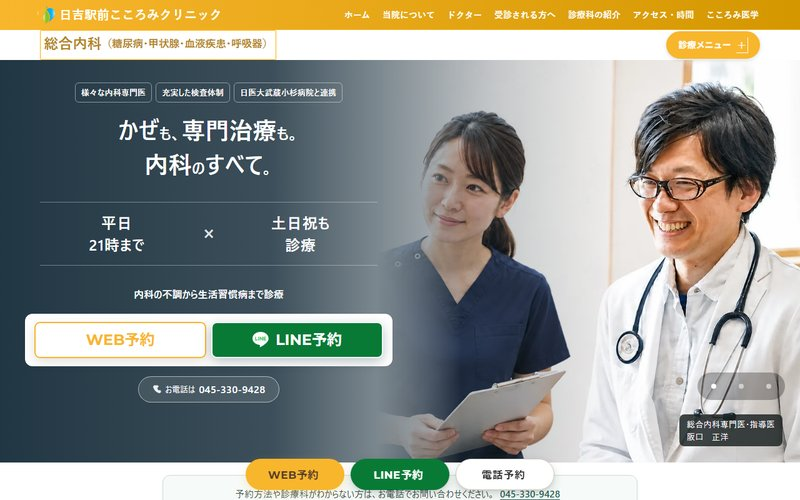
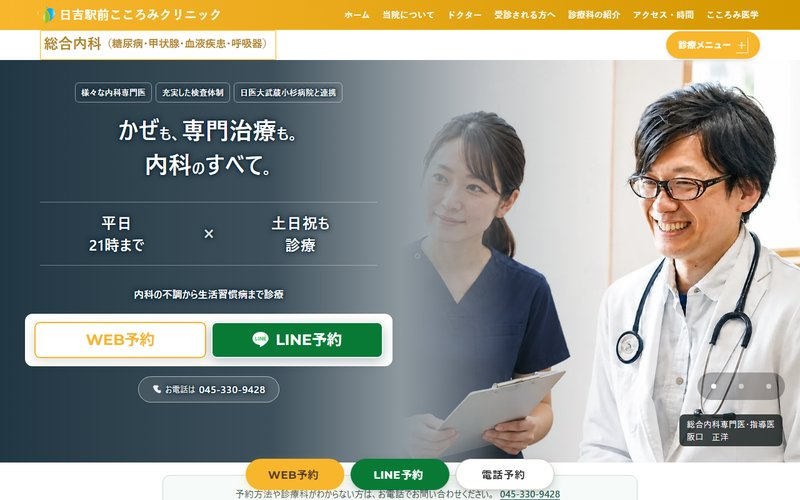
fix: 最初の画面を症状別ガイドの帯の作りそのもの（背景色→真ん中で白→写真）に（v0.19.0）
- 各科：①と同じぼかし（92/80/20/0%）の下に白い地 #F7F7F7（0〜50% 不透明→64% で消える）を敷き、真ん中を白く
- トップ：最初の画面ぜんたいを①と同じ「白い地＋ぼかし」に。写真の下も白い地、写真の上にも同じ位置のぼかし
- ネイビーは文字に紺のにじみ。グレー（4）は白い文字のため v0.18.0 のまま
- 説明ページと縮小画像12枚を更新。本番サイトは変更なし

diff --git a/fv-patterns/assets/fvp.css b/fv-patterns/assets/fvp.css
@@ -1,5 +1,5 @@
-/* 最初の画面の背景5パターン v0.18.0（土台は 2026-06-23〜29 の色＝sample.css。v0.13.0〜v0.16.0 は6・7を足した7パターン、v0.17.0 で6・7を外した。
-   v0.18.0 で各科ページに残っていたピンクを各科の色に、最初の画面のぼかしを①の数字そのものに）
+/* 最初の画面の背景5パターン v0.19.0（土台は 2026-06-23〜29 の色＝sample.css。v0.13.0〜v0.16.0 は6・7を足した7パターン、v0.17.0 で6・7を外した。
+   v0.18.0 で各科ページに残っていたピンクを各科の色に、最初の画面のぼかしを①の数字そのものに、v0.19.0 で最初の画面を①の作り（紺→白→写真）そのものに）
    ご依頼（2026-11-26）：「6月のもとの色を採用。基本、新たな色はつくらない。
      各科のページ、トップのグロナビの色はグラデーションをかけて。
      各ページ、ファーストビューの写真の背景の各科の色はとる。かわりに、各科の背景色ではなく全科統一の背景色にする。
@@ -84,57 +84,76 @@ html.fvp body section#front-top .gv-photo::after,html.fvp body section.hb-hero .
   --jfever-main:var(--fv-bg);--jfever-fill:var(--fv-bg);
   --dp-deep:var(--fv-bg);--hu-deep:var(--fv-bg);--gd-wine:var(--fv-bg);--department-rollout:var(--fv-bg);--color-rose:var(--fv-bg);--hb-main:var(--fv-bg)}
 
-/* ===== 最初の画面の「色 → 写真」のぼかしを①（トップの症状別ガイドの帯）の割合そのものに（v0.18.0・パソコン幅だけ） =====
-   ご依頼（2026-11-26）：「グラデーションの割合だけど、トップページ『その症状、どの専門医が診る？症状別ガイド』のうしろの背景。
-     ドクターの背景のグラデーションの割合を参考にしてほしい。真ん中くらいから白の割合が多くなってる感じ。そこにあわせて全科」
-   ①の帯：写真の上に linear-gradient(90deg, .92 0%, .80 34%, .20 62%, 0 78%)。左から右へ長くゆっくり薄くなり、
-     真ん中（50%）ではもう写真が半分以上見える。文字は半透明の濃い箱（.88）に載せて読みやすくしている。
-   v0.17.0 は「文字の下は 97% のまま → 49%から 54% までで一気に 50%」で、真ん中に段差があり①と違って見えた。
-   v0.18.0：
-   ・ぼかしの数字は①と同じ（0% 92% → 34% 80% → 62% 20% → 78% 0%）。
-   ・白（3）・グレー（4）だけは、①の数字のままだと文字の下に写真が透けて読みやすさの基準を下回る（写真の画素で計算。
-     白の上の総合内科の茶色・健診の朱色、グレーの上の白い文字は、写真が無くても 5.0〜5.2 で基準 4.5 に余裕がない）。
-     そこで左側だけ少し濃く（0% 97% → 34% 96%）。34%から右（62% 20% → 78% 0%）は①と同じ落ち方。
-     あわせて、文字のまわりに背景色のうっすらしたにじみ（text-shadow）を付けた（下の「文字の読みやすさ」）。
-   ・1枚目の写真が右半分だけの科（消化器・総合内科・耳鼻・発熱）と美容皮膚科：①の割合だと写真の左端が縦の線に見えるので、
-     写真の左端から幅の 20% をふんわり消す（mask-image）。①の帯は写真が横幅いっぱいなので、この線は出ない。
-     心療の1枚目（.gv-slide.g1）は横幅いっぱいの写真で、左端 20%（文字の下）だけ写真がわずかに薄くなる
-   ・心療：写真の上にもう1枚ぼかし（.gv-photo::after）があるので、二重にならないよう外す（v0.17.0 から）
-   ・美容皮膚科：写真（.hb-doctor-visual）が全体の 38%〜100% だけなので、同じ位置になるよう写真の中の位置に直した
-     （①の割合で 38% は 71.4%。写真の左端 71.4% → 38.7%（全体の62%）で 20% → 64.5%（78%）で 0%。白・グレーは同じ計算で 85.1% から）
-   ・トップ：今のまま（写真が右の約45%だけで狭く、①の割合では人物の顔まで色がかかる。v0.17.0 と同じ判断）
-   ・スマホ・タブレット（1023px 以下）：写真が上・文字が下の縦並びで横のぼかしは無いので、今のまま
-   v0.17.0 の形（文字の下 97% → 49%から一気に）は color-sample-v0.17.0/ に凍結 */
+/* ===== 最初の画面を①（トップの症状別ガイドの帯）の作りそのものに（v0.19.0・パソコン幅だけ） =====
+   ご依頼（2026-11-26・2回目）：「グラデーションの割合変わってる？ たとえば、ネイビーだったら、トップページの
+     『その症状、どの専門医が診る？症状別ガイド』のうしろのドクター写真の背景をそのままトップの背景にしてほしい。
+     色もグラデーションの割合も同じものを再現して。他の科もグラデーションの割合 真ん中もっと白いはずだよね？」
+   ①の作り：うす灰の地 #F7F7F7 の上に写真（写真の左側 0〜58% はほぼ白い壁）、その上に紺 rgba(15,38,52) の
+     linear-gradient(90deg, .92 0%, .80 34%, .20 62%, 0 78%)。見た目は「紺 → 真ん中で白 → 右にドクター」
+     （画素で測ると 0% #223744 → 34% #435560 → 50% #8D989F → 55% #A5AEB3 → 60% 以降は壁とドクター）。
+   v0.18.0 は紺のぼかしだけを写真の上に重ねていたので、真ん中に写真の中身（看護師の紺の服など）が出て、白くならなかった。
+   v0.19.0（1 ブルーグレー・2 ベージュ・3 白・5 ネイビー）：
+   ・各科：①と同じ「背景色のぼかし（.92/.80/.20/0）」の下に「白い地 #F7F7F7」を敷く。白い地は 0〜50% は写真を隠し、
+     50%→64% で消えて写真が出てくる（①で白い壁が 58% あたりまで続き、そこからドクターが立っているのと同じ見え方）。
+     1枚目の写真が右半分だけの科（総合内科・発熱＝47%から等）は、写真の左端が白い地の下に入るので、写真の端を消す処理（v0.18.0）は外した
+   ・美容皮膚科：写真（.hb-doctor-visual）が全体の 38%〜100% だけ → 写真の外（左）は地に①と同じぼかし＋白い地、
+     写真の上は同じ位置になるよう写真の中の位置に直した（紺 71.4% → 38.7% で 20% → 64.5% で 0%／白い地 19.3% まで → 41.9% で消える）
+   ・トップ：①と同じ「白い地＋背景色のぼかし（.92/.80/.20/0）」を最初の画面ぜんたいに。写真（右 55%〜）の下も白い地にし、
+     写真の上にも同じ位置のぼかしを重ねる（写真の左端 35.2% → 15.7% で 20% → 51.2% で 0%）。写真の左端はもとからふんわり消える作り
+   ・グレー（4）だけは v0.18.0 のまま（白い文字なので、真ん中を白くすると文字が読めない）：写真の上に左側を少し濃くしたぼかし
+     （97% → 34% 96% → 62% 20% → 78% 0%）、写真の左端を消す、文字のにじみと札の塗り
+   ・心療：写真の上のもう1枚のぼかし（.gv-photo::after）は外したまま（v0.17.0 から）
+   ・スマホ・タブレット（1023px 以下）：写真が上・文字が下の縦並びなので、今のまま
+   v0.18.0 の形は color-sample-v0.18.0/、v0.17.0 の形は color-sample-v0.17.0/ に凍結 */
+html.fvp{--fv-white:#F7F7F7}   /* ①の帯の地の色（写真の白い壁もほぼこの色） */
 @media screen and (min-width:1024px){
-  html.fvp:not(#_j):not(#_k):not(#_l) body section#front-top::before{width:100%!important;background:linear-gradient(90deg,
-    color-mix(in srgb,var(--fv-bg) 92%,transparent) 0%,color-mix(in srgb,var(--fv-bg) 80%,transparent) 34%,
-    color-mix(in srgb,var(--fv-bg) 20%,transparent) 62%,color-mix(in srgb,var(--fv-bg) 0%,transparent) 78%)!important}
-  html:is(.fv3,.fv4):not(#_j):not(#_k):not(#_l) body section#front-top::before{background:linear-gradient(90deg,
+  /* 各科：①のぼかし ＋ その下に白い地（0〜50% は写真を隠し、64% で消える） */
+  html.fvp:not(#_j):not(#_k):not(#_l) body section#front-top::before{width:100%!important;background:
+    linear-gradient(90deg,color-mix(in srgb,var(--fv-bg) 92%,transparent) 0%,color-mix(in srgb,var(--fv-bg) 80%,transparent) 34%,
+      color-mix(in srgb,var(--fv-bg) 20%,transparent) 62%,color-mix(in srgb,var(--fv-bg) 0%,transparent) 78%),
+    linear-gradient(90deg,var(--fv-white) 0%,var(--fv-white) 50%,color-mix(in srgb,var(--fv-white) 0%,transparent) 64%)!important}
+  html.fvp:not(#_j):not(#_k):not(#_l) body section#front-top .gv-photo::after{background:none!important}
+  /* 美容皮膚科：写真の外は地に、写真の上は写真の中の位置で */
+  html.fvp:not(.fv4):not(#_j):not(#_k):not(#_l) body section.hb-hero{background:
+    linear-gradient(90deg,color-mix(in srgb,var(--fv-bg) 92%,transparent) 0%,color-mix(in srgb,var(--fv-bg) 80%,transparent) 34%,
+      color-mix(in srgb,var(--fv-bg) 20%,transparent) 62%,color-mix(in srgb,var(--fv-bg) 0%,transparent) 78%),var(--fv-white)!important}
+  html.fvp:not(#_j):not(#_k):not(#_l) body section.hb-hero .hb-doctor-visual::after{background:
+    linear-gradient(90deg,color-mix(in srgb,var(--fv-bg) 71.4%,transparent) 0%,color-mix(in srgb,var(--fv-bg) 20%,transparent) 38.7%,
+      color-mix(in srgb,var(--fv-bg) 0%,transparent) 64.5%),
+    linear-gradient(90deg,var(--fv-white) 0%,var(--fv-white) 19.3%,color-mix(in srgb,var(--fv-white) 0%,transparent) 41.9%)!important}
+  /* トップ：最初の画面ぜんたいを①と同じに（白い地＋ぼかし）。写真の下も白い地、写真の上にも同じ位置のぼかし */
+  html.fvp:not(.fv4):not(#_j):not(#_k):not(#_l):not(#_m) body #home-firstview #mainimage{background:
+    linear-gradient(90deg,color-mix(in srgb,var(--fv-bg) 92%,transparent) 0%,color-mix(in srgb,var(--fv-bg) 80%,transparent) 34%,
+      color-mix(in srgb,var(--fv-bg) 20%,transparent) 62%,color-mix(in srgb,var(--fv-bg) 0%,transparent) 78%),var(--fv-white)!important}
+  html.fvp:not(.fv4):not(#_j):not(#_k):not(#_l):not(#_m) body #home-firstview #mainimage .hero-photo{background:var(--fv-white)!important}
+  html.fvp:not(.fv4) body #home-firstview #mainimage .hero-photo::after{content:"";position:absolute;inset:0;pointer-events:none;background:
+    linear-gradient(90deg,color-mix(in srgb,var(--fv-bg) 35.2%,transparent) 0%,color-mix(in srgb,var(--fv-bg) 20%,transparent) 15.7%,
+      color-mix(in srgb,var(--fv-bg) 0%,transparent) 51.2%)}
+
+  /* グレー（4）：v0.18.0 のまま（白い地は敷かない） */
+  html.fv4:not(#_j):not(#_k):not(#_l) body section#front-top::before{background:linear-gradient(90deg,
     color-mix(in srgb,var(--fv-bg) 97%,transparent) 0%,color-mix(in srgb,var(--fv-bg) 96%,transparent) 34%,
     color-mix(in srgb,var(--fv-bg) 20%,transparent) 62%,color-mix(in srgb,var(--fv-bg) 0%,transparent) 78%)!important}
-  html.fvp:not(#_j):not(#_k):not(#_l) body section#front-top .gv-photo::after{background:none!important}
-  html.fvp:not(#_j):not(#_k):not(#_l) body section.hb-hero .hb-doctor-visual::after{background:linear-gradient(90deg,
-    color-mix(in srgb,var(--fv-bg) 71.4%,transparent) 0%,color-mix(in srgb,var(--fv-bg) 20%,transparent) 38.7%,
-    color-mix(in srgb,var(--fv-bg) 0%,transparent) 64.5%)!important}
-  html:is(.fv3,.fv4):not(#_j):not(#_k):not(#_l) body section.hb-hero .hb-doctor-visual::after{background:linear-gradient(90deg,
+  html.fv4:not(#_j):not(#_k):not(#_l) body section.hb-hero .hb-doctor-visual::after{background:linear-gradient(90deg,
     color-mix(in srgb,var(--fv-bg) 85.1%,transparent) 0%,color-mix(in srgb,var(--fv-bg) 20%,transparent) 38.7%,
     color-mix(in srgb,var(--fv-bg) 0%,transparent) 64.5%)!important}
-  /* 写真が右側だけの1枚目：写真の左端から 20% をふんわり消す（左は背景色そのものなので、そこへ溶け込む） */
-  html.fvp body section#front-top :is(.gv-slide.g1 img,.fv-slide.f1 img,.gv-slide.g1:not(:has(img)),img.ent-gv-exam-photo),
-  html.fvp body section.hb-hero .hb-doctor-visual img{
+  html.fv4 body section#front-top :is(.gv-slide.g1 img,.fv-slide.f1 img,.gv-slide.g1:not(:has(img)),img.ent-gv-exam-photo),
+  html.fv4 body section.hb-hero .hb-doctor-visual img{
     -webkit-mask-image:linear-gradient(90deg,transparent 0,#000 20%)!important;mask-image:linear-gradient(90deg,transparent 0,#000 20%)!important}
 }
 
-/* ===== 文字の読みやすさ（v0.18.0・パソコン幅だけ）：①が文字を濃い箱に載せているのと同じ考え方 =====
-   ・白（3）・グレー（4）：最初の画面の文字のまわりに、背景色のうっすらしたにじみ（文字の下に写真が透けても読めるように）
-   ・明るい背景（1〜3）とグレー（4）：小さな札（「日医大武蔵小杉病院と連携」など）・電話番号・心療の「よくある質問」の中を背景色で塗る。
-     色の上では今までと同じに見え、写真の上では背景色の札になる。ボタン（WEB予約・LINE予約など）はもとから塗ってあるので触らない
-   ・ネイビー（5）は①の数字のままで全部の文字が基準を満たすので、何も足していない */
+/* ===== 文字の読みやすさ（パソコン幅だけ）：①が文字を濃い箱に載せているのと同じ考え方 =====
+   ・ネイビー（5）：真ん中が白くなったので、文字の右側（全体の 42〜52%）が白い地に近づく。最初の画面の文字のまわりに紺のうっすらしたにじみ（v0.19.0）
+   ・グレー（4）：文字のにじみ、小さな札（「日医大武蔵小杉病院と連携」など）・電話番号・心療の「よくある質問」の中を背景色で塗る（v0.18.0 から）
+   ・1〜3（明るい背景）：文字の下はもう白い地なので、v0.18.0 で足した札の塗り・白のにじみは外した
+   ボタン（WEB予約・LINE予約など）・トップの診療科の札（白いカード）はもとから塗ってあるので触らない。美容皮膚科の「メニュー・料金」（半透明の白いボタン）だけはネイビー（5）でにじみを付ける */
 @media screen and (min-width:1024px){
-  html:is(.fv3,.fv4):not(#_j):not(#_k):not(#_l) body section#front-top .div-section-container :is(h1,h2,h3,p,li,strong,span,small,b,em,a):not(.hero-booking-action,.hero-booking-action *,.mental-guide-button.is-primary,.mental-guide-button.is-primary *,.patient-contact-help,.patient-contact-help *),
-  html:is(.fv3,.fv4):not(#_j):not(#_k):not(#_l) body section.hb-hero .hb-hero__copy :is(h1,h2,p,li,strong,span,small,b,em,a):not(.hb-button,.hb-button *,.patient-contact-help,.patient-contact-help *){
+  html:is(.fv4,.fv5):not(#_j):not(#_k):not(#_l) body section#front-top .div-section-container :is(h1,h2,h3,p,li,strong,span,small,b,em,a):not(.hero-booking-action,.hero-booking-action *,.mental-guide-button.is-primary,.mental-guide-button.is-primary *,.patient-contact-help,.patient-contact-help *),
+  html:is(.fv4,.fv5):not(#_j):not(#_k):not(#_l) body section.hb-hero .hb-hero__copy :is(h1,h2,p,li,strong,span,small,b,em,a):not(.hb-button,.hb-button *,.patient-contact-help,.patient-contact-help *),
+  html.fv5:not(#_j):not(#_k):not(#_l) body section.hb-hero .hb-hero__copy :is(.hb-button--white,.hb-button--white *),
+  html.fv5:not(#_j):not(#_k):not(#_l) body #mainimage :is(#clinic-title,.hero-heading .corporation,.hero-heading .location,.hero-heading .location span,.hero-heading .hours,.department-heading h2,.department-heading span){
     text-shadow:0 0 1px var(--fv-bg),0 0 3px var(--fv-bg),0 0 6px var(--fv-bg),0 0 10px var(--fv-bg)!important}
-  html:is(.fvL,.fv4):not(#_j):not(#_k):not(#_l) body section#front-top .div-section-container :is(.ul-cta-point>li,.gv-feats>li,.fv-feats>li,a[href^="tel:"],.mental-guide-button.is-secondary){background-color:var(--fv-bg)!important}
+  html.fv4:not(#_j):not(#_k):not(#_l) body section#front-top .div-section-container :is(.ul-cta-point>li,.gv-feats>li,.fv-feats>li,a[href^="tel:"],.mental-guide-button.is-secondary){background-color:var(--fv-bg)!important}
 }
 
 /* ===== 明るい背景（1〜3）：白い文字・白い線を濃い色に（④グレーは文字だけ、うすい白を白に＝「タップして発信」など） =====

diff --git a/fv-patterns/index.html b/fv-patterns/index.html
@@ -4,7 +4,7 @@
 <meta charset="utf-8">
 <meta name="viewport" content="width=device-width, initial-scale=1">
 <meta name="robots" content="noindex,nofollow">
-<meta name="version" content="0.18.0">
+<meta name="version" content="0.19.0">
 <title>日吉 最初の画面の背景5案</title>
 <style>
 :root{--bg:#faf8f6;--card:#fff;--ink:#1f1d1b;--sub:#625b55;--line:#e6e0d9}
@@ -67,14 +67,14 @@ a:focus-visible{outline:3px solid #6a9bff;outline-offset:2px}
 </section>
 
 <section class="box" aria-labelledby="fade-h">
-<h2 id="fade-h">最初の画面の「色 → 写真」のぼかし：①の割合そのもの（v0.18.0）</h2>
+<h2 id="fade-h">最初の画面：①の帯の作りそのもの「背景色 → 真ん中で白 → 写真」（v0.19.0）</h2>
 <ul>
-<li>トップページ中ほどの「その症状、どの専門医が診る？症状別ガイド」の帯（①）と<b>同じ数字</b>にしました。左端 92% → 全体の34%で 80% → 62%で 20% → 78%で 0%（ここから先は写真そのまま）。左から右へ長くゆっくり薄くなり、<b>真ん中あたりから写真（白）が多くなります</b></li>
-<li>前回（v0.17.0）は「文字の下は 97% のまま → 49%から54%で一気に写真」で、真ん中に段差があり①と違って見えていました</li>
-<li>1枚目の写真が右半分だけの科（消化器・総合内科・耳鼻・発熱）と美容皮膚科は、①の割合だと写真の左端が縦の線に見えるため、写真の左端をふんわり消して背景に溶け込ませています</li>
-<li><b>白（3）とグレー（4）だけ</b>は、①の数字のままだと文字の下に写真が透けて読みにくくなるため（写真の色で計算）、左側だけ少し濃く（左端 97% → 34%で 96%）しています。34%から右の落ち方（62%で 20% → 78%で 0%）は①と同じです。あわせて文字のまわりに背景色のうっすらしたにじみを付けました（①が文字を濃い箱に載せているのと同じ考え方）</li>
-<li>明るい背景（1〜3）とグレー（4）では、小さな札（「日医大武蔵小杉病院と連携」など）と電話番号の中を背景色で塗りました。色の上では今までと同じに見え、写真の上では背景色の札になります</li>
-<li>トップページは写真が右の約45%だけと狭く、同じ割合にすると人物の顔まで色がかかるため、今のぼかしのままです。スマホ・タブレット（写真が上・文字が下の縦並び）も今のままです</li>
+<li>トップページ中ほどの「その症状、どの専門医が診る？症状別ガイド」の帯（①）は、<b>うす灰の白い地 <code>#F7F7F7</code></b>（ドクター写真の左側も白い壁）の上に、紺を 左端 92% → 全体の34%で 80% → 62%で 20% → 78%で 0% と重ねた作りです。見た目は「紺 → 真ん中で白 → 右にドクター」になります</li>
+<li><b>トップ</b>：最初の画面ぜんたいを①と同じ作り（白い地＋同じ割合の背景色）にしました。写真（右の55%〜）の下も白い地にし、写真の上にも同じ位置のぼかしを重ねています</li>
+<li><b>各科</b>：①と同じ割合の背景色の下に白い地を敷き、全体の50%までは写真を隠して、50%→64%で写真が出てくるようにしました（①で白い壁が真ん中すぎまで続き、そこからドクターが立っているのと同じ見え方）。前回（v0.18.0）は背景色のぼかしだけで、真ん中に写真の中身（看護師さんの紺の服など）が出て白くなっていませんでした</li>
+<li>ネイビー（5）は真ん中が白くなったぶん、文字の右側が白い地に近づくので、最初の画面の文字のまわりに紺のうっすらしたにじみを付けました（①が文字を濃い箱に載せているのと同じ考え方）</li>
+<li><b>グレー（4）だけは前回（v0.18.0）のまま</b>です。文字が白いので、真ん中を白くすると文字が読めなくなるためです（写真の上に左側を少し濃くしたぼかし・文字のにじみ・小さな札の塗り）</li>
+<li>スマホ・タブレット（写真が上・文字が下の縦並び）は今のままです</li>
 </ul>
 </section>
 
@@ -153,11 +153,12 @@ a:focus-visible{outline:3px solid #6a9bff;outline-offset:2px}
 </section>
 
 <section class="box" aria-labelledby="chk-h">
-<h2 id="chk-h">確認したこと（2026-11-26・v0.18.0）</h2>
+<h2 id="chk-h">確認したこと（2026-11-26・v0.19.0）</h2>
 <ul>
-<li>8ページ × 5パターン × パソコン幅（1280px）・スマホ幅（375px）の80通りで、前回（v0.17.0）と全部の部品の色を照らし合わせ、変わったのは「最初の画面のぼかしと文字のまわり（パソコン幅だけ）」と「ピンク → 各科の色」だけ。ヘッダー・スマホ幅の最初の画面・トップページは差 0</li>
-<li>各科6ページ（総合内科・耳鼻・心療・美容皮膚・健診・発熱）× 3パターンで、ピンクの残り 0。総合内科の「こんなお悩み・症状はありませんか?」は総合内科の6月の色 <code>#F8B62D</code></li>
-<li>各科7ページ × 5パターンの最初の画面で、写真が透ける所の文字を、実際の写真（スライドの写真すべて・14枚）とぼかしを重ねて計算し、読みやすさの基準を下回る文字 0（85通り・1,160か所、パソコン幅）。にじみを付けた文字は字の形を描いて、字のすぐ外側で測りました</li>
+<li>①の帯の見た目を写真の画素で測ると、左端 <code>#223744</code> → 全体の34% <code>#435560</code> → 50% <code>#8D989F</code> → 55% <code>#A5AEB3</code> → その先は白い壁とドクター。トップ・各科のネイビー（5）の白い地の部分は、この色と同じ計算になっています</li>
+<li>8ページ × 5パターン × パソコン幅（1280px）・スマホ幅（375px）の80通りで、前回（v0.18.0）と全部の部品の色を照らし合わせ、変わったのは「パソコン幅の最初の画面（1・2・3・5）」だけ。グレー（4）・スマホ幅・ヘッダー・最初の画面より下は差 0</li>
+<li>全8ページ × 5パターンの最初の画面で、写真が透ける所の文字を、実際の写真（スライドの写真すべて）と地・ぼかしを重ねて計算し、読みやすさの基準を下回る文字 0（95通り・1,470か所、パソコン幅）。にじみを付けた文字は字の形を描いて、字のすぐ外側で測りました</li>
+<li>v0.18.0 で直した「各科ページに残っていたピンク」は、そのままです（総合内科の「こんなお悩み・症状はありませんか?」は総合内科の6月の色 <code>#F8B62D</code>）</li>
 <li>同じ80通りで、文字と背景の色の差（読みやすさの基準）を測り、今回の変更で読みにくくなった文字は 0。もとの6月は白い文字が明るい科の色の上にあり読みにくかったところが多く、明るい背景・暗い背景のどちらでも読みやすくなっています</li>
 <li>基準に届かないまま残っているのは、6月のデザインのままの「WEB予約」の文字（白地に明るい科の色）と、トップの診療科の札の文字だけです</li>
 </ul>

diff --git a/fv-patterns/checkups/index.html b/fv-patterns/checkups/index.html
@@ -5,8 +5,8 @@
 <meta name="robots" content="noindex,nofollow">
 <script>(function(){var h=document.documentElement,q=(location.search.match(/[?&]p=([1-5])\b/)||[])[1],s=null;try{s=localStorage.getItem("jFvPat")}catch(e){}var m=q||s||"1";if(!/^[1-5]$/.test(m))m="1";if(q){try{localStorage.setItem("jFvPat",m)}catch(e){}}h.classList.add("fvp","fvr","fv"+m,/^[123]$/.test(m)?"fvL":"fvD")})();</script>
 
-<link rel="stylesheet" href="../assets/sample.css?v=0.18.0">
-<link rel="stylesheet" href="../assets/fvp.css?v=0.18.0">
+<link rel="stylesheet" href="../assets/sample.css?v=0.19.0">
+<link rel="stylesheet" href="../assets/fvp.css?v=0.19.0">
 
 
 
@@ -1674,7 +1674,7 @@ margin-block-end: 24px;
 var e="script#wp-emoji-settings",t=document.querySelector(e);if(!(t instanceof HTMLScriptElement))throw new Error("Element missing: "+e);const r=JSON.parse(t.text),s=(window._wpemojiSettings=r,"wpEmojiSettingsSupports"),o=["flag","emoji"];function i(e){try{var t={supportTests:e,timestamp:(new Date).valueOf()};sessionStorage.setItem(s,JSON.stringify(t))}catch(e){}}function c(e,t,n){e.clearRect(0,0,e.canvas.width,e.canvas.height),e.fillText(t,0,0);t=new Uint32Array(e.getImageData(0,0,e.canvas.width,e.canvas.height).data);e.clearRect(0,0,e.canvas.width,e.canvas.height),e.fillText(n,0,0);const r=new Uint32Array(e.getImageData(0,0,e.canvas.width,e.canvas.height).data);return t.every((e,t)=>e===r[t])}function p(e,t){e.clearRect(0,0,e.canvas.width,e.canvas.height),e.fillText(t,0,0);var n=e.getImageData(16,16,1,1);for(let e=0;e<n.data.length;e++)if(0!==n.data[e])return!1;return!0}function u(e,t,n,r){switch(t){case"flag":return n(e,"\ud83c\udff3\ufe0f\u200d\u26a7\ufe0f","\ud83c\udff3\ufe0f\u200b\u26a7\ufe0f")?!1:!n(e,"\ud83c\udde8\ud83c\uddf6","\ud83c\udde8\u200b\ud83c\uddf6")&&!n(e,"\ud83c\udff4\udb40\udc67\udb40\udc62\udb40\udc65\udb40\udc6e\udb40\udc67\udb40\udc7f","\ud83c\udff4\u200b\udb40\udc67\u200b\udb40\udc62\u200b\udb40\udc65\u200b\udb40\udc6e\u200b\udb40\udc67\u200b\udb40\udc7f");case"emoji":return!r(e,"\ud83e\u1fac8")}return!1}function f(e,t,n,r){let a;const s=(a="undefined"!=typeof WorkerGlobalScope&&self instanceof WorkerGlobalScope?new OffscreenCanvas(300,150):document.createElement("canvas")).getContext("2d",{willReadFrequently:!0}),o=(s.textBaseline="top",s.font="600 32px Arial",{});return e.forEach(e=>{o[e]=t(s,e,n,r)}),o}function a(e){var t=document.createElement("script");t.src=e,t.defer=!0,document.head.appendChild(t)}r.supports={everything:!0,everythingExceptFlag:!0},new Promise(t=>{let n=function(){try{var e=JSON.parse(sessionStorage.getItem(s));if("object"==typeof e&&"number"==typeof e.timestamp&&(new Date).valueOf()<e.timestamp+604800&&"object"==typeof e.supportTests)return e.supportTests}catch(e){}return null}();if(!n){if("undefined"!=typeof Worker&&"undefined"!=typeof OffscreenCanvas&&"undefined"!=typeof URL&&URL.createObjectURL&&"undefined"!=typeof Blob)try{var e="postMessage("+f.toString()+"("+[JSON.stringify(o),u.toString(),c.toString(),p.toString()].join(",")+"));",r=new Blob([e],{type:"text/javascript"});const a=new Worker(URL.createObjectURL(r),{name:"wpTestEmojiSupports"});return void(a.onmessage=e=>{i(n=e.data),a.terminate(),t(n)})}catch(e){}i(n=f(o,u,c,p))}t(n)}).then(e=>{for(const n in e)r.supports[n]=e[n],r.supports.everything=r.supports.everything&&r.supports[n],"flag"!==n&&(r.supports.everythingExceptFlag=r.supports.everythingExceptFlag&&r.supports[n]);var t;r.supports.everythingExceptFlag=r.supports.everythingExceptFlag&&!r.supports.flag,r.supports.everything||((t=r.source||{}).concatemoji?a(t.concatemoji):t.wpemoji&&t.twemoji&&(a(t.twemoji),a(t.wpemoji)))});
 //# sourceURL=https://hiyoshi-cocoromi-cl.jp/wp-includes/js/wp-emoji-loader.min.js
 </script>
-  <script src="../assets/fvp.js?v=0.18.0" data-page="checkups"></script>
+  <script src="../assets/fvp.js?v=0.19.0" data-page="checkups"></script>
 </body>
 </html>
 

diff --git a/fv-patterns/general/index.html b/fv-patterns/general/index.html
@@ -5,8 +5,8 @@
 <meta name="robots" content="noindex,nofollow">
 <script>(function(){var h=document.documentElement,q=(location.search.match(/[?&]p=([1-5])\b/)||[])[1],s=null;try{s=localStorage.getItem("jFvPat")}catch(e){}var m=q||s||"1";if(!/^[1-5]$/.test(m))m="1";if(q){try{localStorage.setItem("jFvPat",m)}catch(e){}}h.classList.add("fvp","fvr","fv"+m,/^[123]$/.test(m)?"fvL":"fvD")})();</script>
 
-<link rel="stylesheet" href="../assets/sample.css?v=0.18.0">
-<link rel="stylesheet" href="../assets/fvp.css?v=0.18.0">
+<link rel="stylesheet" href="../assets/sample.css?v=0.19.0">
+<link rel="stylesheet" href="../assets/fvp.css?v=0.19.0">
 
 
 
@@ -1950,7 +1950,7 @@ margin-block-end: 24px;
 var e="script#wp-emoji-settings",t=document.querySelector(e);if(!(t instanceof HTMLScriptElement))throw new Error("Element missing: "+e);const r=JSON.parse(t.text),s=(window._wpemojiSettings=r,"wpEmojiSettingsSupports"),o=["flag","emoji"];function i(e){try{var t={supportTests:e,timestamp:(new Date).valueOf()};sessionStorage.setItem(s,JSON.stringify(t))}catch(e){}}function c(e,t,n){e.clearRect(0,0,e.canvas.width,e.canvas.height),e.fillText(t,0,0);t=new Uint32Array(e.getImageData(0,0,e.canvas.width,e.canvas.height).data);e.clearRect(0,0,e.canvas.width,e.canvas.height),e.fillText(n,0,0);const r=new Uint32Array(e.getImageData(0,0,e.canvas.width,e.canvas.height).data);return t.every((e,t)=>e===r[t])}function p(e,t){e.clearRect(0,0,e.canvas.width,e.canvas.height),e.fillText(t,0,0);var n=e.getImageData(16,16,1,1);for(let e=0;e<n.data.length;e++)if(0!==n.data[e])return!1;return!0}function u(e,t,n,r){switch(t){case"flag":return n(e,"\ud83c\udff3\ufe0f\u200d\u26a7\ufe0f","\ud83c\udff3\ufe0f\u200b\u26a7\ufe0f")?!1:!n(e,"\ud83c\udde8\ud83c\uddf6","\ud83c\udde8\u200b\ud83c\uddf6")&&!n(e,"\ud83c\udff4\udb40\udc67\udb40\udc62\udb40\udc65\udb40\udc6e\udb40\udc67\udb40\udc7f","\ud83c\udff4\u200b\udb40\udc67\u200b\udb40\udc62\u200b\udb40\udc65\u200b\udb40\udc6e\u200b\udb40\udc67\u200b\udb40\udc7f");case"emoji":return!r(e,"\ud83e\u1fac8")}return!1}function f(e,t,n,r){let a;const s=(a="undefined"!=typeof WorkerGlobalScope&&self instanceof WorkerGlobalScope?new OffscreenCanvas(300,150):document.createElement("canvas")).getContext("2d",{willReadFrequently:!0}),o=(s.textBaseline="top",s.font="600 32px Arial",{});return e.forEach(e=>{o[e]=t(s,e,n,r)}),o}function a(e){var t=document.createElement("script");t.src=e,t.defer=!0,document.head.appendChild(t)}r.supports={everything:!0,everythingExceptFlag:!0},new Promise(t=>{let n=function(){try{var e=JSON.parse(sessionStorage.getItem(s));if("object"==typeof e&&"number"==typeof e.timestamp&&(new Date).valueOf()<e.timestamp+604800&&"object"==typeof e.supportTests)return e.supportTests}catch(e){}return null}();if(!n){if("undefined"!=typeof Worker&&"undefined"!=typeof OffscreenCanvas&&"undefined"!=typeof URL&&URL.createObjectURL&&"undefined"!=typeof Blob)try{var e="postMessage("+f.toString()+"("+[JSON.stringify(o),u.toString(),c.toString(),p.toString()].join(",")+"));",r=new Blob([e],{type:"text/javascript"});const a=new Worker(URL.createObjectURL(r),{name:"wpTestEmojiSupports"});return void(a.onmessage=e=>{i(n=e.data),a.terminate(),t(n)})}catch(e){}i(n=f(o,u,c,p))}t(n)}).then(e=>{for(const n in e)r.supports[n]=e[n],r.supports.everything=r.supports.everything&&r.supports[n],"flag"!==n&&(r.supports.everythingExceptFlag=r.supports.everythingExceptFlag&&r.supports[n]);var t;r.supports.everythingExceptFlag=r.supports.everythingExceptFlag&&!r.supports.flag,r.supports.everything||((t=r.source||{}).concatemoji?a(t.concatemoji):t.wpemoji&&t.twemoji&&(a(t.twemoji),a(t.wpemoji)))});
 //# sourceURL=https://hiyoshi-cocoromi-cl.jp/wp-includes/js/wp-emoji-loader.min.js
 </script>
-  <script src="../assets/fvp.js?v=0.18.0" data-page="general"></script>
+  <script src="../assets/fvp.js?v=0.19.0" data-page="general"></script>
 </body>
 </html>
 

diff --git a/fv-patterns/gastro/index.html b/fv-patterns/gastro/index.html
@@ -5,8 +5,8 @@
 <meta name="robots" content="noindex,nofollow">
 <script>(function(){var h=document.documentElement,q=(location.search.match(/[?&]p=([1-5])\b/)||[])[1],s=null;try{s=localStorage.getItem("jFvPat")}catch(e){}var m=q||s||"1";if(!/^[1-5]$/.test(m))m="1";if(q){try{localStorage.setItem("jFvPat",m)}catch(e){}}h.classList.add("fvp","fvr","fv"+m,/^[123]$/.test(m)?"fvL":"fvD")})();</script>
 
-<link rel="stylesheet" href="../assets/sample.css?v=0.18.0">
-<link rel="stylesheet" href="../assets/fvp.css?v=0.18.0">
+<link rel="stylesheet" href="../assets/sample.css?v=0.19.0">
+<link rel="stylesheet" href="../assets/fvp.css?v=0.19.0">
 
 
 
@@ -2147,7 +2147,7 @@ margin-block-end: 24px;
 var e="script#wp-emoji-settings",t=document.querySelector(e);if(!(t instanceof HTMLScriptElement))throw new Error("Element missing: "+e);const r=JSON.parse(t.text),s=(window._wpemojiSettings=r,"wpEmojiSettingsSupports"),o=["flag","emoji"];function i(e){try{var t={supportTests:e,timestamp:(new Date).valueOf()};sessionStorage.setItem(s,JSON.stringify(t))}catch(e){}}function c(e,t,n){e.clearRect(0,0,e.canvas.width,e.canvas.height),e.fillText(t,0,0);t=new Uint32Array(e.getImageData(0,0,e.canvas.width,e.canvas.height).data);e.clearRect(0,0,e.canvas.width,e.canvas.height),e.fillText(n,0,0);const r=new Uint32Array(e.getImageData(0,0,e.canvas.width,e.canvas.height).data);return t.every((e,t)=>e===r[t])}function p(e,t){e.clearRect(0,0,e.canvas.width,e.canvas.height),e.fillText(t,0,0);var n=e.getImageData(16,16,1,1);for(let e=0;e<n.data.length;e++)if(0!==n.data[e])return!1;return!0}function u(e,t,n,r){switch(t){case"flag":return n(e,"\ud83c\udff3\ufe0f\u200d\u26a7\ufe0f","\ud83c\udff3\ufe0f\u200b\u26a7\ufe0f")?!1:!n(e,"\ud83c\udde8\ud83c\uddf6","\ud83c\udde8\u200b\ud83c\uddf6")&&!n(e,"\ud83c\udff4\udb40\udc67\udb40\udc62\udb40\udc65\udb40\udc6e\udb40\udc67\udb40\udc7f","\ud83c\udff4\u200b\udb40\udc67\u200b\udb40\udc62\u200b\udb40\udc65\u200b\udb40\udc6e\u200b\udb40\udc67\u200b\udb40\udc7f");case"emoji":return!r(e,"\ud83e\u1fac8")}return!1}function f(e,t,n,r){let a;const s=(a="undefined"!=typeof WorkerGlobalScope&&self instanceof WorkerGlobalScope?new OffscreenCanvas(300,150):document.createElement("canvas")).getContext("2d",{willReadFrequently:!0}),o=(s.textBaseline="top",s.font="600 32px Arial",{});return e.forEach(e=>{o[e]=t(s,e,n,r)}),o}function a(e){var t=document.createElement("script");t.src=e,t.defer=!0,document.head.appendChild(t)}r.supports={everything:!0,everythingExceptFlag:!0},new Promise(t=>{let n=function(){try{var e=JSON.parse(sessionStorage.getItem(s));if("object"==typeof e&&"number"==typeof e.timestamp&&(new Date).valueOf()<e.timestamp+604800&&"object"==typeof e.supportTests)return e.supportTests}catch(e){}return null}();if(!n){if("undefined"!=typeof Worker&&"undefined"!=typeof OffscreenCanvas&&"undefined"!=typeof URL&&URL.createObjectURL&&"undefined"!=typeof Blob)try{var e="postMessage("+f.toString()+"("+[JSON.stringify(o),u.toString(),c.toString(),p.toString()].join(",")+"));",r=new Blob([e],{type:"text/javascript"});const a=new Worker(URL.createObjectURL(r),{name:"wpTestEmojiSupports"});return void(a.onmessage=e=>{i(n=e.data),a.terminate(),t(n)})}catch(e){}i(n=f(o,u,c,p))}t(n)}).then(e=>{for(const n in e)r.supports[n]=e[n],r.supports.everything=r.supports.everything&&r.supports[n],"flag"!==n&&(r.supports.everythingExceptFlag=r.supports.everythingExceptFlag&&r.supports[n]);var t;r.supports.everythingExceptFlag=r.supports.everythingExceptFlag&&!r.supports.flag,r.supports.everything||((t=r.source||{}).concatemoji?a(t.concatemoji):t.wpemoji&&t.twemoji&&(a(t.twemoji),a(t.wpemoji)))});
 //# sourceURL=https://hiyoshi-cocoromi-cl.jp/wp-includes/js/wp-emoji-loader.min.js
 </script>
-  <script src="../assets/fvp.js?v=0.18.0" data-page="gastro"></script>
+  <script src="../assets/fvp.js?v=0.19.0" data-page="gastro"></script>
 </body>
 </html>
 

diff --git a/fv-patterns/mental/index.html b/fv-patterns/mental/index.html
@@ -5,8 +5,8 @@
 <meta name="robots" content="noindex,nofollow">
 <script>(function(){var h=document.documentElement,q=(location.search.match(/[?&]p=([1-5])\b/)||[])[1],s=null;try{s=localStorage.getItem("jFvPat")}catch(e){}var m=q||s||"1";if(!/^[1-5]$/.test(m))m="1";if(q){try{localStorage.setItem("jFvPat",m)}catch(e){}}h.classList.add("fvp","fvr","fv"+m,/^[123]$/.test(m)?"fvL":"fvD")})();</script>
 
-<link rel="stylesheet" href="../assets/sample.css?v=0.18.0">
-<link rel="stylesheet" href="../assets/fvp.css?v=0.18.0">
+<link rel="stylesheet" href="../assets/sample.css?v=0.19.0">
+<link rel="stylesheet" href="../assets/fvp.css?v=0.19.0">
 
 
 
@@ -1375,7 +1375,7 @@ margin-block-end: 24px;
 var e="script#wp-emoji-settings",t=document.querySelector(e);if(!(t instanceof HTMLScriptElement))throw new Error("Element missing: "+e);const r=JSON.parse(t.text),s=(window._wpemojiSettings=r,"wpEmojiSettingsSupports"),o=["flag","emoji"];function i(e){try{var t={supportTests:e,timestamp:(new Date).valueOf()};sessionStorage.setItem(s,JSON.stringify(t))}catch(e){}}function c(e,t,n){e.clearRect(0,0,e.canvas.width,e.canvas.height),e.fillText(t,0,0);t=new Uint32Array(e.getImageData(0,0,e.canvas.width,e.canvas.height).data);e.clearRect(0,0,e.canvas.width,e.canvas.height),e.fillText(n,0,0);const r=new Uint32Array(e.getImageData(0,0,e.canvas.width,e.canvas.height).data);return t.every((e,t)=>e===r[t])}function p(e,t){e.clearRect(0,0,e.canvas.width,e.canvas.height),e.fillText(t,0,0);var n=e.getImageData(16,16,1,1);for(let e=0;e<n.data.length;e++)if(0!==n.data[e])return!1;return!0}function u(e,t,n,r){switch(t){case"flag":return n(e,"\ud83c\udff3\ufe0f\u200d\u26a7\ufe0f","\ud83c\udff3\ufe0f\u200b\u26a7\ufe0f")?!1:!n(e,"\ud83c\udde8\ud83c\uddf6","\ud83c\udde8\u200b\ud83c\uddf6")&&!n(e,"\ud83c\udff4\udb40\udc67\udb40\udc62\udb40\udc65\udb40\udc6e\udb40\udc67\udb40\udc7f","\ud83c\udff4\u200b\udb40\udc67\u200b\udb40\udc62\u200b\udb40\udc65\u200b\udb40\udc6e\u200b\udb40\udc67\u200b\udb40\udc7f");case"emoji":return!r(e,"\ud83e\u1fac8")}return!1}function f(e,t,n,r){let a;const s=(a="undefined"!=typeof WorkerGlobalScope&&self instanceof WorkerGlobalScope?new OffscreenCanvas(300,150):document.createElement("canvas")).getContext("2d",{willReadFrequently:!0}),o=(s.textBaseline="top",s.font="600 32px Arial",{});return e.forEach(e=>{o[e]=t(s,e,n,r)}),o}function a(e){var t=document.createElement("script");t.src=e,t.defer=!0,document.head.appendChild(t)}r.supports={everything:!0,everythingExceptFlag:!0},new Promise(t=>{let n=function(){try{var e=JSON.parse(sessionStorage.getItem(s));if("object"==typeof e&&"number"==typeof e.timestamp&&(new Date).valueOf()<e.timestamp+604800&&"object"==typeof e.supportTests)return e.supportTests}catch(e){}return null}();if(!n){if("undefined"!=typeof Worker&&"undefined"!=typeof OffscreenCanvas&&"undefined"!=typeof URL&&URL.createObjectURL&&"undefined"!=typeof Blob)try{var e="postMessage("+f.toString()+"("+[JSON.stringify(o),u.toString(),c.toString(),p.toString()].join(",")+"));",r=new Blob([e],{type:"text/javascript"});const a=new Worker(URL.createObjectURL(r),{name:"wpTestEmojiSupports"});return void(a.onmessage=e=>{i(n=e.data),a.terminate(),t(n)})}catch(e){}i(n=f(o,u,c,p))}t(n)}).then(e=>{for(const n in e)r.supports[n]=e[n],r.supports.everything=r.supports.everything&&r.supports[n],"flag"!==n&&(r.supports.everythingExceptFlag=r.supports.everythingExceptFlag&&r.supports[n]);var t;r.supports.everythingExceptFlag=r.supports.everythingExceptFlag&&!r.supports.flag,r.supports.everything||((t=r.source||{}).concatemoji?a(t.concatemoji):t.wpemoji&&t.twemoji&&(a(t.twemoji),a(t.wpemoji)))});
 //# sourceURL=https://hiyoshi-cocoromi-cl.jp/wp-includes/js/wp-emoji-loader.min.js
 </script>
-  <script src="../assets/fvp.js?v=0.18.0" data-page="mental"></script>
+  <script src="../assets/fvp.js?v=0.19.0" data-page="mental"></script>
 </body>
 </html>
 

diff --git a/fv-patterns/fever/index.html b/fv-patterns/fever/index.html
@@ -4,8 +4,8 @@
 <meta name="robots" content="noindex,nofollow">
 <script>(function(){var h=document.documentElement,q=(location.search.match(/[?&]p=([1-5])\b/)||[])[1],s=null;try{s=localStorage.getItem("jFvPat")}catch(e){}var m=q||s||"1";if(!/^[1-5]$/.test(m))m="1";if(q){try{localStorage.setItem("jFvPat",m)}catch(e){}}h.classList.add("fvp","fvr","fv"+m,/^[123]$/.test(m)?"fvL":"fvD")})();</script>
 
-<link rel="stylesheet" href="../assets/sample.css?v=0.18.0">
-<link rel="stylesheet" href="../assets/fvp.css?v=0.18.0">
+<link rel="stylesheet" href="../assets/sample.css?v=0.19.0">
+<link rel="stylesheet" href="../assets/fvp.css?v=0.19.0">
 
 
 
@@ -1501,7 +1501,7 @@ margin-block-end: 24px;
 var e="script#wp-emoji-settings",t=document.querySelector(e);if(!(t instanceof HTMLScriptElement))throw new Error("Element missing: "+e);const r=JSON.parse(t.text),s=(window._wpemojiSettings=r,"wpEmojiSettingsSupports"),o=["flag","emoji"];function i(e){try{var t={supportTests:e,timestamp:(new Date).valueOf()};sessionStorage.setItem(s,JSON.stringify(t))}catch(e){}}function c(e,t,n){e.clearRect(0,0,e.canvas.width,e.canvas.height),e.fillText(t,0,0);t=new Uint32Array(e.getImageData(0,0,e.canvas.width,e.canvas.height).data);e.clearRect(0,0,e.canvas.width,e.canvas.height),e.fillText(n,0,0);const r=new Uint32Array(e.getImageData(0,0,e.canvas.width,e.canvas.height).data);return t.every((e,t)=>e===r[t])}function p(e,t){e.clearRect(0,0,e.canvas.width,e.canvas.height),e.fillText(t,0,0);var n=e.getImageData(16,16,1,1);for(let e=0;e<n.data.length;e++)if(0!==n.data[e])return!1;return!0}function u(e,t,n,r){switch(t){case"flag":return n(e,"\ud83c\udff3\ufe0f\u200d\u26a7\ufe0f","\ud83c\udff3\ufe0f\u200b\u26a7\ufe0f")?!1:!n(e,"\ud83c\udde8\ud83c\uddf6","\ud83c\udde8\u200b\ud83c\uddf6")&&!n(e,"\ud83c\udff4\udb40\udc67\udb40\udc62\udb40\udc65\udb40\udc6e\udb40\udc67\udb40\udc7f","\ud83c\udff4\u200b\udb40\udc67\u200b\udb40\udc62\u200b\udb40\udc65\u200b\udb40\udc6e\u200b\udb40\udc67\u200b\udb40\udc7f");case"emoji":return!r(e,"\ud83e\u1fac8")}return!1}function f(e,t,n,r){let a;const s=(a="undefined"!=typeof WorkerGlobalScope&&self instanceof WorkerGlobalScope?new OffscreenCanvas(300,150):document.createElement("canvas")).getContext("2d",{willReadFrequently:!0}),o=(s.textBaseline="top",s.font="600 32px Arial",{});return e.forEach(e=>{o[e]=t(s,e,n,r)}),o}function a(e){var t=document.createElement("script");t.src=e,t.defer=!0,document.head.appendChild(t)}r.supports={everything:!0,everythingExceptFlag:!0},new Promise(t=>{let n=function(){try{var e=JSON.parse(sessionStorage.getItem(s));if("object"==typeof e&&"number"==typeof e.timestamp&&(new Date).valueOf()<e.timestamp+604800&&"object"==typeof e.supportTests)return e.supportTests}catch(e){}return null}();if(!n){if("undefined"!=typeof Worker&&"undefined"!=typeof OffscreenCanvas&&"undefined"!=typeof URL&&URL.createObjectURL&&"undefined"!=typeof Blob)try{var e="postMessage("+f.toString()+"("+[JSON.stringify(o),u.toString(),c.toString(),p.toString()].join(",")+"));",r=new Blob([e],{type:"text/javascript"});const a=new Worker(URL.createObjectURL(r),{name:"wpTestEmojiSupports"});return void(a.onmessage=e=>{i(n=e.data),a.terminate(),t(n)})}catch(e){}i(n=f(o,u,c,p))}t(n)}).then(e=>{for(const n in e)r.supports[n]=e[n],r.supports.everything=r.supports.everything&&r.supports[n],"flag"!==n&&(r.supports.everythingExceptFlag=r.supports.everythingExceptFlag&&r.supports[n]);var t;r.supports.everythingExceptFlag=r.supports.everythingExceptFlag&&!r.supports.flag,r.supports.everything||((t=r.source||{}).concatemoji?a(t.concatemoji):t.wpemoji&&t.twemoji&&(a(t.twemoji),a(t.wpemoji)))});
 //# sourceURL=https://hiyoshi-cocoromi-cl.jp/wp-includes/js/wp-emoji-loader.min.js
 </script>
-  <script src="../assets/fvp.js?v=0.18.0" data-page="fever"></script>
+  <script src="../assets/fvp.js?v=0.19.0" data-page="fever"></script>
 </body>
 </html>
 

diff --git a/fv-patterns/derm/index.html b/fv-patterns/derm/index.html
@@ -5,8 +5,8 @@
 <meta name="robots" content="noindex,nofollow">
 <script>(function(){var h=document.documentElement,q=(location.search.match(/[?&]p=([1-5])\b/)||[])[1],s=null;try{s=localStorage.getItem("jFvPat")}catch(e){}var m=q||s||"1";if(!/^[1-5]$/.test(m))m="1";if(q){try{localStorage.setItem("jFvPat",m)}catch(e){}}h.classList.add("fvp","fvr","fv"+m,/^[123]$/.test(m)?"fvL":"fvD")})();</script>
 
-<link rel="stylesheet" href="../assets/sample.css?v=0.18.0">
-<link rel="stylesheet" href="../assets/fvp.css?v=0.18.0">
+<link rel="stylesheet" href="../assets/sample.css?v=0.19.0">
+<link rel="stylesheet" href="../assets/fvp.css?v=0.19.0">
 
 
 
@@ -1524,7 +1524,7 @@ margin-block-end: 24px;
 var e="script#wp-emoji-settings",t=document.querySelector(e);if(!(t instanceof HTMLScriptElement))throw new Error("Element missing: "+e);const r=JSON.parse(t.text),s=(window._wpemojiSettings=r,"wpEmojiSettingsSupports"),o=["flag","emoji"];function i(e){try{var t={supportTests:e,timestamp:(new Date).valueOf()};sessionStorage.setItem(s,JSON.stringify(t))}catch(e){}}function c(e,t,n){e.clearRect(0,0,e.canvas.width,e.canvas.height),e.fillText(t,0,0);t=new Uint32Array(e.getImageData(0,0,e.canvas.width,e.canvas.height).data);e.clearRect(0,0,e.canvas.width,e.canvas.height),e.fillText(n,0,0);const r=new Uint32Array(e.getImageData(0,0,e.canvas.width,e.canvas.height).data);return t.every((e,t)=>e===r[t])}function p(e,t){e.clearRect(0,0,e.canvas.width,e.canvas.height),e.fillText(t,0,0);var n=e.getImageData(16,16,1,1);for(let e=0;e<n.data.length;e++)if(0!==n.data[e])return!1;return!0}function u(e,t,n,r){switch(t){case"flag":return n(e,"\ud83c\udff3\ufe0f\u200d\u26a7\ufe0f","\ud83c\udff3\ufe0f\u200b\u26a7\ufe0f")?!1:!n(e,"\ud83c\udde8\ud83c\uddf6","\ud83c\udde8\u200b\ud83c\uddf6")&&!n(e,"\ud83c\udff4\udb40\udc67\udb40\udc62\udb40\udc65\udb40\udc6e\udb40\udc67\udb40\udc7f","\ud83c\udff4\u200b\udb40\udc67\u200b\udb40\udc62\u200b\udb40\udc65\u200b\udb40\udc6e\u200b\udb40\udc67\u200b\udb40\udc7f");case"emoji":return!r(e,"\ud83e\u1fac8")}return!1}function f(e,t,n,r){let a;const s=(a="undefined"!=typeof WorkerGlobalScope&&self instanceof WorkerGlobalScope?new OffscreenCanvas(300,150):document.createElement("canvas")).getContext("2d",{willReadFrequently:!0}),o=(s.textBaseline="top",s.font="600 32px Arial",{});return e.forEach(e=>{o[e]=t(s,e,n,r)}),o}function a(e){var t=document.createElement("script");t.src=e,t.defer=!0,document.head.appendChild(t)}r.supports={everything:!0,everythingExceptFlag:!0},new Promise(t=>{let n=function(){try{var e=JSON.parse(sessionStorage.getItem(s));if("object"==typeof e&&"number"==typeof e.timestamp&&(new Date).valueOf()<e.timestamp+604800&&"object"==typeof e.supportTests)return e.supportTests}catch(e){}return null}();if(!n){if("undefined"!=typeof Worker&&"undefined"!=typeof OffscreenCanvas&&"undefined"!=typeof URL&&URL.createObjectURL&&"undefined"!=typeof Blob)try{var e="postMessage("+f.toString()+"("+[JSON.stringify(o),u.toString(),c.toString(),p.toString()].join(",")+"));",r=new Blob([e],{type:"text/javascript"});const a=new Worker(URL.createObjectURL(r),{name:"wpTestEmojiSupports"});return void(a.onmessage=e=>{i(n=e.data),a.terminate(),t(n)})}catch(e){}i(n=f(o,u,c,p))}t(n)}).then(e=>{for(const n in e)r.supports[n]=e[n],r.supports.everything=r.supports.everything&&r.supports[n],"flag"!==n&&(r.supports.everythingExceptFlag=r.supports.everythingExceptFlag&&r.supports[n]);var t;r.supports.everythingExceptFlag=r.supports.everythingExceptFlag&&!r.supports.flag,r.supports.everything||((t=r.source||{}).concatemoji?a(t.concatemoji):t.wpemoji&&t.twemoji&&(a(t.twemoji),a(t.wpemoji)))});
 //# sourceURL=https://hiyoshi-cocoromi-cl.jp/wp-includes/js/wp-emoji-loader.min.js
 </script>
-  <script src="../assets/fvp.js?v=0.18.0" data-page="derm"></script>
+  <script src="../assets/fvp.js?v=0.19.0" data-page="derm"></script>
 </body>
 </html>
 

diff --git a/fv-patterns/ent/index.html b/fv-patterns/ent/index.html
@@ -5,8 +5,8 @@
 <meta name="robots" content="noindex,nofollow">
 <script>(function(){var h=document.documentElement,q=(location.search.match(/[?&]p=([1-5])\b/)||[])[1],s=null;try{s=localStorage.getItem("jFvPat")}catch(e){}var m=q||s||"1";if(!/^[1-5]$/.test(m))m="1";if(q){try{localStorage.setItem("jFvPat",m)}catch(e){}}h.classList.add("fvp","fvr","fv"+m,/^[123]$/.test(m)?"fvL":"fvD")})();</script>
 
-<link rel="stylesheet" href="../assets/sample.css?v=0.18.0">
-<link rel="stylesheet" href="../assets/fvp.css?v=0.18.0">
+<link rel="stylesheet" href="../assets/sample.css?v=0.19.0">
+<link rel="stylesheet" href="../assets/fvp.css?v=0.19.0">
 
 
 
@@ -1486,7 +1486,7 @@ margin-block-end: 24px;
 var e="script#wp-emoji-settings",t=document.querySelector(e);if(!(t instanceof HTMLScriptElement))throw new Error("Element missing: "+e);const r=JSON.parse(t.text),s=(window._wpemojiSettings=r,"wpEmojiSettingsSupports"),o=["flag","emoji"];function i(e){try{var t={supportTests:e,timestamp:(new Date).valueOf()};sessionStorage.setItem(s,JSON.stringify(t))}catch(e){}}function c(e,t,n){e.clearRect(0,0,e.canvas.width,e.canvas.height),e.fillText(t,0,0);t=new Uint32Array(e.getImageData(0,0,e.canvas.width,e.canvas.height).data);e.clearRect(0,0,e.canvas.width,e.canvas.height),e.fillText(n,0,0);const r=new Uint32Array(e.getImageData(0,0,e.canvas.width,e.canvas.height).data);return t.every((e,t)=>e===r[t])}function p(e,t){e.clearRect(0,0,e.canvas.width,e.canvas.height),e.fillText(t,0,0);var n=e.getImageData(16,16,1,1);for(let e=0;e<n.data.length;e++)if(0!==n.data[e])return!1;return!0}function u(e,t,n,r){switch(t){case"flag":return n(e,"\ud83c\udff3\ufe0f\u200d\u26a7\ufe0f","\ud83c\udff3\ufe0f\u200b\u26a7\ufe0f")?!1:!n(e,"\ud83c\udde8\ud83c\uddf6","\ud83c\udde8\u200b\ud83c\uddf6")&&!n(e,"\ud83c\udff4\udb40\udc67\udb40\udc62\udb40\udc65\udb40\udc6e\udb40\udc67\udb40\udc7f","\ud83c\udff4\u200b\udb40\udc67\u200b\udb40\udc62\u200b\udb40\udc65\u200b\udb40\udc6e\u200b\udb40\udc67\u200b\udb40\udc7f");case"emoji":return!r(e,"\ud83e\u1fac8")}return!1}function f(e,t,n,r){let a;const s=(a="undefined"!=typeof WorkerGlobalScope&&self instanceof WorkerGlobalScope?new OffscreenCanvas(300,150):document.createElement("canvas")).getContext("2d",{willReadFrequently:!0}),o=(s.textBaseline="top",s.font="600 32px Arial",{});return e.forEach(e=>{o[e]=t(s,e,n,r)}),o}function a(e){var t=document.createElement("script");t.src=e,t.defer=!0,document.head.appendChild(t)}r.supports={everything:!0,everythingExceptFlag:!0},new Promise(t=>{let n=function(){try{var e=JSON.parse(sessionStorage.getItem(s));if("object"==typeof e&&"number"==typeof e.timestamp&&(new Date).valueOf()<e.timestamp+604800&&"object"==typeof e.supportTests)return e.supportTests}catch(e){}return null}();if(!n){if("undefined"!=typeof Worker&&"undefined"!=typeof OffscreenCanvas&&"undefined"!=typeof URL&&URL.createObjectURL&&"undefined"!=typeof Blob)try{var e="postMessage("+f.toString()+"("+[JSON.stringify(o),u.toString(),c.toString(),p.toString()].join(",")+"));",r=new Blob([e],{type:"text/javascript"});const a=new Worker(URL.createObjectURL(r),{name:"wpTestEmojiSupports"});return void(a.onmessage=e=>{i(n=e.data),a.terminate(),t(n)})}catch(e){}i(n=f(o,u,c,p))}t(n)}).then(e=>{for(const n in e)r.supports[n]=e[n],r.supports.everything=r.supports.everything&&r.supports[n],"flag"!==n&&(r.supports.everythingExceptFlag=r.supports.everythingExceptFlag&&r.supports[n]);var t;r.supports.everythingExceptFlag=r.supports.everythingExceptFlag&&!r.supports.flag,r.supports.everything||((t=r.source||{}).concatemoji?a(t.concatemoji):t.wpemoji&&t.twemoji&&(a(t.twemoji),a(t.wpemoji)))});
 //# sourceURL=https://hiyoshi-cocoromi-cl.jp/wp-includes/js/wp-emoji-loader.min.js
 </script>
-  <script src="../assets/fvp.js?v=0.18.0" data-page="ent"></script>
+  <script src="../assets/fvp.js?v=0.19.0" data-page="ent"></script>
 </body>
 </html>
 

diff --git a/fv-patterns/top/index.html b/fv-patterns/top/index.html
@@ -4,8 +4,8 @@
 <meta name="robots" content="noindex,nofollow">
 <script>(function(){var h=document.documentElement,q=(location.search.match(/[?&]p=([1-5])\b/)||[])[1],s=null;try{s=localStorage.getItem("jFvPat")}catch(e){}var m=q||s||"1";if(!/^[1-5]$/.test(m))m="1";if(q){try{localStorage.setItem("jFvPat",m)}catch(e){}}h.classList.add("fvp","fvr","fv"+m,/^[123]$/.test(m)?"fvL":"fvD")})();</script>
 
-<link rel="stylesheet" href="../assets/sample.css?v=0.18.0">
-<link rel="stylesheet" href="../assets/fvp.css?v=0.18.0">
+<link rel="stylesheet" href="../assets/sample.css?v=0.19.0">
+<link rel="stylesheet" href="../assets/fvp.css?v=0.19.0">
 
 
 
@@ -1630,7 +1630,7 @@ body>main#main-content{padding:50px 0}
         </symbol>
       </defs>
     </svg>
-<script src="../assets/fvp.js?v=0.18.0" data-page="top"></script>
+<script src="../assets/fvp.js?v=0.19.0" data-page="top"></script>
 </body>
 </html>
 
